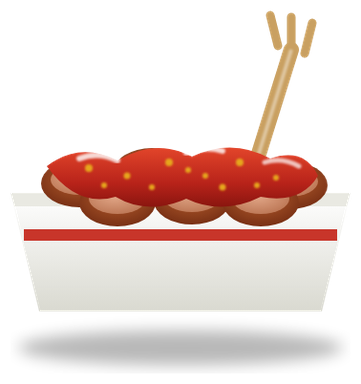
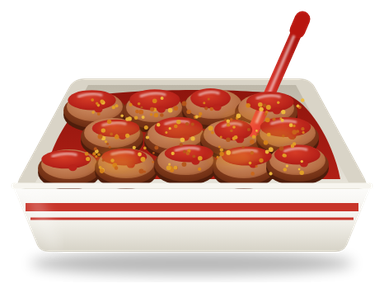
Neue Bilder für Steak und Currywurst [skip ci]
- Steak: gegrillt mit Rautenmuster, angebratener Fettkante, Rosmarin,
  Salz und Pfeffer auf einem Holzbrett (statt Frikadelle mit Fettring).
- Currywurst: Wurstscheiben in der Schale von schräg oben, Curryketchup
  in den Zwischenräumen und auf den Scheiben, Currypulver und rote
  Pommesgabel.
- draw.py: einzelne Bilder neu zeichnen (Namen als Argumente), aktueller
  Pfad der Chromium-Shell.
- Wisch-Test auch für Android (Dehn-Effekt beim Überscrollen).

Claude-Session: https://claude.ai/code/session_01NupdSHJUqBHfHitkyt8aD3

diff --git a/test/layout_test.dart b/test/layout_test.dart
@@ -168,7 +168,7 @@ void main() {
   });
 
   testWidgets(
-    'iPhone: Passen alle Kacheln, federt das Raster beim Wischen nicht',
+    'Passen alle Kacheln, federt bzw. dehnt sich das Raster beim Wischen nicht',
     (tester) async {
       setScreen(tester, const Size(400, 800));
       await tester.pumpWidget(buildApp());
@@ -185,7 +185,7 @@ void main() {
       await gesture.up();
       await tester.pumpAndSettle();
     },
-    variant: TargetPlatformVariant.only(TargetPlatform.iOS),
+    variant: const TargetPlatformVariant({TargetPlatform.iOS, TargetPlatform.android}),
   );
 
   testWidgets('Wenig Platz: Raster scrollt', (tester) async {

diff --git a/tool/article_art/draw.py b/tool/article_art/draw.py
@@ -3,17 +3,19 @@ Chromium zu PNG (längste Seite 384 px, transparent, auf den Inhalt
 zugeschnitten). Halbrealistischer Stil: Verläufe, Licht, Schatten und
 Oberflächenstruktur statt Konturen.
 
-Aufruf: python3 tool/article_art/draw.py <ausgabeordner> [chromium]
-Danach die PNGs nach assets/articles kopieren (pfand -> pfandrueckgabe,
-frei -> freier_betrag).
+Aufruf: python3 tool/article_art/draw.py <ausgabeordner> [chromium] [name ...]
+Ohne Namen werden alle Bilder gezeichnet. Danach die PNGs nach
+assets/articles kopieren (pfand -> pfandrueckgabe, frei -> freier_betrag).
 """
 import os
+import random
 import subprocess
 import sys
 
 OUT = sys.argv[1]
 CHROME = sys.argv[2] if len(sys.argv) > 2 else (
-    '/opt/pw-browsers/chromium_headless_shell-1194/chrome-linux/headless_shell')
+    '/opt/pw-browsers/chromium_headless_shell-1243/chrome-headless-shell-linux64/chrome-headless-shell')
+ONLY = set(sys.argv[3:])
 
 # Gemeinsame Filter: weicher Schatten, Körnung (Brot, Fleisch, Panade),
 # unregelmäßiger Rand (Panade) und weiche Glanzlichter.
@@ -134,30 +136,88 @@ ART['bratwurst'] = svg('''
 <linearGradient id="senf" x1="0" y1="0" x2="0" y2="1"><stop offset="0" stop-color="#ffe45a"/><stop offset="1" stop-color="#e2b400"/></linearGradient>
 ''')
 
-ART['currywurst'] = svg('''
-<path d="M322 300 L372 140" stroke="#c9a061" stroke-width="16" stroke-linecap="round"/>
-<path d="M358 136 l-8 -32 M372 140 l0 -34 M386 144 l8 -32" stroke="#c9a061" stroke-width="9" stroke-linecap="round"/>
-<path d="M322 300 L372 140" stroke="#fff" stroke-width="4" opacity=".4" filter="url(#blur1)"/>
-<path d="M78 290 L434 290 L404 414 L108 414 Z" fill="url(#schale)"/>
-<path d="M78 290 L434 290 L430 304 L82 304 Z" fill="#e9e9e2"/>
-<path d="M92 334 L420 334" stroke="#c8352a" stroke-width="12"/>
+def _curry_slice(x, y):
+    """Wurstscheibe von schräg oben: Haut als Rand, gebräunte Schnittfläche."""
+    return (f'<ellipse cx="{x}" cy="{y + 10}" rx="38" ry="21" fill="#4e1d0b"/>'
+            f'<ellipse cx="{x}" cy="{y + 5}" rx="38" ry="21" fill="url(#cwSkin)"/>'
+            f'<ellipse cx="{x}" cy="{y}" rx="34" ry="18" fill="url(#cwCut)"/>')
+
+
+def _curry_rows():
+    """Scheiben in versetzten Reihen, passend in die Schale (hinten schmaler),
+    leicht unregelmäßig."""
+    rnd = random.Random(3)
+    rows = []
+    for i, y in enumerate((204, 238, 272)):
+        half = 142 + (y - 170) * 68 / 130 - 42    # halbe Innenbreite minus Rand
+        n = int(2 * half // 70) + 1
+        x0 = 256 - (n - 1) * 35 + (10 if i % 2 else -10)
+        rows.append([(round(x0 + k * 70 + rnd.uniform(-5, 5)), round(y + rnd.uniform(-3, 3))) for k in range(n)])
+    return rows
+
+
+def _curry_sauce_cap(i, x, y):
+    rnd = random.Random(100 + i)
+    dx, dy = rnd.uniform(-5, 5), rnd.uniform(-10, -5)
+    rx, ry = rnd.uniform(23, 31), rnd.uniform(10, 13)
+    return (f'<ellipse cx="{x + dx:.1f}" cy="{y + dy:.1f}" rx="{rx:.1f}" ry="{ry:.1f}" fill="url(#cwSauce)"/>'
+            f'<ellipse cx="{x + dx + 8:.1f}" cy="{y + dy + ry - 1:.1f}" rx="5" ry="4" fill="#b8221a"/>'
+            + shine(f'M{x + dx - rx * .55:.1f} {y + dy - ry * .35:.1f} Q{x + dx:.1f} {y + dy - ry * .8:.1f} '
+                    f'{x + dx + rx * .4:.1f} {y + dy - ry * .5:.1f}', 3, .55, 'blur1'))
+
+
+def _curry_powder():
+    rnd = random.Random(7)
+    dots = []
+    for _ in range(170):
+        x = rnd.uniform(124, 392)
+        y = rnd.uniform(194, 286)
+        r = rnd.uniform(1.4, 3.0)
+        c = rnd.choice(['#e3a126', '#d98418', '#c9661a', '#f0bd3c', '#b8561a'])
+        dots.append(f'<circle cx="{x:.1f}" cy="{y:.1f}" r="{r:.1f}" fill="{c}"/>')
+    haze = ''.join(f'<ellipse cx="{rnd.uniform(140, 370):.0f}" cy="{rnd.uniform(200, 280):.0f}" rx="26" ry="10" '
+                   f'fill="#e39a2a" opacity=".22"/>' for _ in range(10))
+    return f'<g filter="url(#blur3)">{haze}</g><g opacity=".95">' + ''.join(dots) + '</g>'
+
+
+_CW_ROWS = _curry_rows()
+_CW_SLICES = [p for row in _CW_ROWS for p in row]
+
+ART['currywurst'] = svg(
+    # Schale: Rand und Innenraum (hinten).
+    '''
+<path d="M126 170 L386 170 Q400 170 406 182 L466 292 Q472 304 458 304 L54 304 Q40 304 46 292 L106 182 Q112 170 126 170 Z" fill="#d9d4c7"/>
+<path d="M130 178 L382 178 L446 296 L66 296 Z" fill="url(#cwInnen)"/>
+<path d="M142 190 C200 182 320 182 372 190 C400 200 428 250 436 292 L76 292 C84 250 112 200 142 190 Z" fill="url(#cwBett)"/>
+'''
+    # Wurstscheiben, von hinten nach vorn.
+    + ''.join(_curry_slice(x, y) for x, y in _CW_SLICES)
+    # Pommesgabel aus rotem Kunststoff, steckt in einer Scheibe.
+    + '''
 <g>
-''' + ''.join(f'''<ellipse cx="{x}" cy="{y}" rx="40" ry="25" fill="url(#skin)"/>
-<ellipse cx="{x}" cy="{y - 4}" rx="30" ry="16" fill="url(#cut)"/>''' for x, y in
-              [(150, 280), (226, 268), (302, 270), (370, 282), (190, 300), (268, 298), (340, 300)]) + '''
+  <path d="M330 234 L384 112" stroke="url(#cwGabel)" stroke-width="14" stroke-linecap="round"/>
+  <path d="M384 112 L390 98" stroke="#b8160f" stroke-width="19" stroke-linecap="round"/>
+  <path d="M334 224 L380 118" stroke="#fff" stroke-width="3.5" opacity=".55" filter="url(#blur1)"/>
 </g>
-<path d="M116 262 Q150 236 190 256 Q230 232 268 252 Q310 232 350 254 Q386 242 400 272 Q382 302 340 294 Q300 314 262 296 Q222 314 188 294 Q148 306 116 262 Z" fill="url(#sauce)"/>
-''' + shine('M150 254 Q170 246 190 256', 6, .8, 'blur1') + shine('M262 248 Q282 240 300 246', 6, .8, 'blur1') + shine('M344 258 Q362 252 380 262', 5, .7, 'blur1') + '''
-<g fill="#e6a51d" filter="url(#blur1)">
-  <circle cx="160" cy="264" r="4"/><circle cx="200" cy="272" r="3.5"/><circle cx="244" cy="258" r="4"/><circle cx="282" cy="272" r="3"/>
-  <circle cx="318" cy="258" r="4"/><circle cx="356" cy="274" r="3"/><circle cx="226" cy="284" r="3"/><circle cx="300" cy="284" r="3.5"/>
-  <circle cx="176" cy="282" r="3"/><circle cx="336" cy="282" r="3"/><circle cx="264" cy="266" r="3"/>
-</g>
-''', defs='''
-<linearGradient id="schale" x1="0" y1="0" x2="0" y2="1"><stop offset="0" stop-color="#ffffff"/><stop offset="1" stop-color="#d9d9d0"/></linearGradient>
-<radialGradient id="skin" cx=".5" cy=".4" r=".7"><stop offset="0" stop-color="#b8602f"/><stop offset="1" stop-color="#6e2810"/></radialGradient>
-<radialGradient id="cut" cx=".45" cy=".4" r=".7"><stop offset="0" stop-color="#e3a98a"/><stop offset="1" stop-color="#b8714f"/></radialGradient>
-<linearGradient id="sauce" x1="0" y1="0" x2="0" y2="1"><stop offset="0" stop-color="#e2452a"/><stop offset=".6" stop-color="#b8231a"/><stop offset="1" stop-color="#8a150f"/></linearGradient>
+'''
+    # Curryketchup: liegt in den Zwischenräumen und überzieht jede Scheibe
+    # zum Teil; vorn bleibt ein Rand der Schnittfläche frei.
+    + ''.join(_curry_sauce_cap(i, x, y) for i, (x, y) in enumerate(_CW_SLICES))
+    + _curry_powder()
+    # Vorderwand der Schale verdeckt den unteren Rand der vorderen Scheiben.
+    + '''
+<path d="M46 292 Q40 304 54 304 L458 304 Q472 304 466 292 L474 300 L444 372 Q440 380 430 380 L82 380 Q72 380 68 372 L38 300 Z" fill="url(#cwWand)"/>
+<path d="M40 300 L472 300" stroke="#f7f5ef" stroke-width="7" stroke-linecap="round"/>
+<path d="M54 326 L458 326" stroke="#c8352a" stroke-width="10"/>
+<path d="M60 340 L452 340" stroke="#c8352a" stroke-width="3"/>
+''' + shine('M64 314 L88 372', 12, .35, 'blur8'), shadow=(256, 394, 196, 14), defs='''
+<linearGradient id="cwInnen" x1="0" y1="0" x2="0" y2="1"><stop offset="0" stop-color="#bdb7a8"/><stop offset="1" stop-color="#e6e2d8"/></linearGradient>
+<linearGradient id="cwWand" x1="0" y1="0" x2="0" y2="1"><stop offset="0" stop-color="#ffffff"/><stop offset=".6" stop-color="#f1efe8"/><stop offset="1" stop-color="#d6d2c6"/></linearGradient>
+<radialGradient id="cwSkin" cx=".5" cy=".35" r=".8"><stop offset="0" stop-color="#a5532a"/><stop offset="1" stop-color="#5e230d"/></radialGradient>
+<radialGradient id="cwCut" cx=".45" cy=".4" r=".75"><stop offset="0" stop-color="#d4946a"/><stop offset=".7" stop-color="#b66e44"/><stop offset="1" stop-color="#8a4424"/></radialGradient>
+<linearGradient id="cwBett" x1="0" y1="0" x2="0" y2="1"><stop offset="0" stop-color="#8e150d"/><stop offset="1" stop-color="#b01f15"/></linearGradient>
+<radialGradient id="cwSauce" cx=".45" cy=".4" r=".7"><stop offset="0" stop-color="#d63c26"/><stop offset=".7" stop-color="#b8221a"/><stop offset="1" stop-color="#a01b12"/></radialGradient>
+<linearGradient id="cwGabel" x1="0" x2="1"><stop offset="0" stop-color="#f0463a"/><stop offset="1" stop-color="#a8140e"/></linearGradient>
 ''')
 
 ART['krakauer'] = svg('''
@@ -184,33 +244,46 @@ ART['krakauer'] = svg('''
 <radialGradient id="marbled" cx=".45" cy=".4" r=".75"><stop offset="0" stop-color="#e79a8c"/><stop offset=".7" stop-color="#c76a5c"/><stop offset="1" stop-color="#a24c3f"/></radialGradient>
 ''')
 
+STEAK_TOP = ('M92 246 C88 194 146 156 222 154 C290 152 322 172 360 172 C410 172 440 204 432 248 '
+             'C424 292 378 312 312 316 C252 320 220 334 166 328 C114 322 96 292 92 246 Z')
+# Fleisch: wie STEAK_TOP, nur die Oberkante tiefer, sodass oben ein Fettrand
+# bleibt.
+STEAK_MEAT = ('M96 250 C94 202 148 168 222 166 C289 164 321 183 359 183 C405 183 430 210 430 248 '
+              'C424 292 378 312 312 316 C252 320 220 334 166 328 C114 322 98 292 98 252 Z')
+
 ART['steak'] = svg('''
-<rect x="40" y="250" width="432" height="180" rx="24" fill="url(#brett)" filter="url(#grain)"/>
-<g stroke="#8a5a2c" stroke-width="3" opacity=".35" fill="none">
-  <path d="M60 290 Q256 280 452 296 M56 330 Q256 322 456 336 M60 372 Q256 362 452 378 M66 408 Q256 400 446 412"/>
+<path d="M78 252 L438 252 Q452 252 456 264 L494 378 Q498 392 484 392 L28 392 Q14 392 18 378 L58 264 Q62 252 78 252 Z" fill="url(#stBrett)" filter="url(#grain)"/>
+<path d="M18 380 L494 380 L494 396 Q494 414 476 414 L36 414 Q18 414 18 396 Z" fill="url(#stKante)"/>
+<g stroke="#8a5a2c" stroke-width="3" opacity=".3" fill="none">
+  <path d="M70 280 Q256 272 444 282 M56 318 Q256 308 458 320 M42 356 Q256 346 472 358"/>
 </g>
-<path d="M40 404 L472 404 L472 406 Q472 430 448 430 L64 430 Q40 430 40 406 Z" fill="#7a4a20" opacity=".6"/>
-<path d="M92 252 C90 170 214 132 310 152 C408 172 452 232 432 304 C412 380 304 404 216 388 C132 374 94 330 92 252 Z"
-  fill="#3a1a0e" opacity=".55" filter="url(#blur8)" transform="translate(6 14)"/>
-<path d="M92 252 C90 170 214 132 310 152 C408 172 452 232 432 304 C412 380 304 404 216 388 C132 374 94 330 92 252 Z" fill="url(#fett)"/>
-<g filter="url(#grain)">
-  <path d="M116 254 C116 188 216 164 300 178 C384 192 418 238 404 296 C388 352 302 374 224 362 C152 350 116 314 116 254 Z" fill="url(#fleisch)"/>
+<g transform="translate(-31 -18) scale(1.12)">
+<path d="''' + STEAK_TOP + '''" fill="#2a0f06" opacity=".55" filter="url(#blur8)" transform="translate(8 30)"/>
+<path d="''' + STEAK_TOP + '''" fill="url(#stSeite)" transform="translate(0 20)"/>
+<path d="''' + STEAK_TOP + '''" fill="url(#stFett)"/>
+<g filter="url(#grain)"><path d="''' + STEAK_MEAT + '''" fill="url(#stFleisch)"/></g>
+<clipPath id="stClip"><path d="''' + STEAK_TOP + '''"/></clipPath>
+<g clip-path="url(#stClip)" stroke="#220a03" stroke-width="12" stroke-linecap="round" opacity=".8" filter="url(#blur3)">
+  <path d="M110 218 L230 338 M170 182 L300 312 M240 172 L372 304 M316 176 L430 290"/>
+  <path d="M116 306 L230 192 M196 322 L326 192 M282 318 L404 196"/>
 </g>
-<g stroke="#2b0f05" stroke-width="16" stroke-linecap="round" opacity=".75" filter="url(#blur3)">
-  <path d="M154 222 L236 304 M200 190 L306 296 M262 180 L366 284 M324 190 L396 262 M144 296 L180 332"/>
+''' + shine('M150 218 C200 196 270 192 330 202', 9, .3, 'blur8') + shine('M356 216 C384 216 404 230 410 246', 6, .35, 'blur3') + shine('M124 192 C160 168 210 160 250 160', 4, .45, 'blur1') + '''
+<g fill="#160602" opacity=".7"><circle cx="168" cy="248" r="2.6"/><circle cx="214" cy="286" r="2.2"/><circle cx="262" cy="218" r="2.4"/>
+  <circle cx="318" cy="270" r="2.6"/><circle cx="366" cy="240" r="2.2"/><circle cx="140" cy="280" r="2"/><circle cx="290" cy="298" r="2"/></g>
+<g fill="#fbf7ee" opacity=".9"><rect x="196" y="234" width="4" height="4" transform="rotate(20 198 236)"/><rect x="250" y="266" width="4" height="4"/>
+  <rect x="338" y="220" width="4" height="4" transform="rotate(40 340 222)"/><rect x="154" y="300" width="3.5" height="3.5"/></g>
+<g>
+  <path d="M250 190 C288 164 334 160 372 174" fill="none" stroke="#4a5d2a" stroke-width="5" stroke-linecap="round"/>
+''' + ''.join(f'<ellipse cx="{252 + i * 11.5}" cy="{188 - i * 2.2 + (6 if i % 2 else -6)}" rx="11" ry="2.8" fill="#3f6b2e" '
+              f'transform="rotate({-40 if i % 2 else 30} {252 + i * 11.5} {188 - i * 2.2})"/>' for i in range(11)) + '''
 </g>
-''' + shine('M150 208 C200 182 280 176 340 190', 10, .35, 'blur8') + '''
-<path d="M282 190 C322 170 352 170 372 186" fill="none" stroke="#2f6b2a" stroke-width="5" stroke-linecap="round"/>
-<g fill="#4c8f3e">
-  <ellipse cx="300" cy="176" rx="14" ry="4.5" transform="rotate(-30 300 176)"/><ellipse cx="324" cy="170" rx="14" ry="4.5" transform="rotate(20 324 170)"/>
-  <ellipse cx="346" cy="174" rx="14" ry="4.5" transform="rotate(-25 346 174)"/><ellipse cx="312" cy="190" rx="14" ry="4.5" transform="rotate(30 312 190)"/>
-  <ellipse cx="336" cy="190" rx="14" ry="4.5" transform="rotate(-20 336 190)"/><ellipse cx="360" cy="186" rx="12" ry="4" transform="rotate(25 360 186)"/>
 </g>
-<g fill="#f3efe4"><circle cx="190" cy="330" r="3"/><circle cx="262" cy="346" r="2.5"/><circle cx="350" cy="320" r="3"/><circle cx="220" cy="240" r="2.5"/></g>
-''', shadow=(256, 440, 220, 14), defs='''
-<linearGradient id="brett" x1="0" y1="0" x2="0" y2="1"><stop offset="0" stop-color="#d8a868"/><stop offset="1" stop-color="#b07c40"/></linearGradient>
-<radialGradient id="fett" cx=".45" cy=".35" r=".8"><stop offset="0" stop-color="#f6e4c4"/><stop offset="1" stop-color="#cf9e64"/></radialGradient>
-<radialGradient id="fleisch" cx=".45" cy=".35" r=".8"><stop offset="0" stop-color="#a65a33"/><stop offset=".6" stop-color="#7c3b1d"/><stop offset="1" stop-color="#4f210d"/></radialGradient>
+''', shadow=(256, 418, 236, 14), defs='''
+<linearGradient id="stBrett" x1="0" y1="0" x2="0" y2="1"><stop offset="0" stop-color="#cf9b5c"/><stop offset="1" stop-color="#e0b274"/></linearGradient>
+<linearGradient id="stKante" x1="0" y1="0" x2="0" y2="1"><stop offset="0" stop-color="#a86f36"/><stop offset="1" stop-color="#7a4a20"/></linearGradient>
+<linearGradient id="stSeite" x1="0" y1="0" x2="0" y2="1"><stop offset=".6" stop-color="#5a240e"/><stop offset="1" stop-color="#2e1006"/></linearGradient>
+<linearGradient id="stFett" x1="0" y1="0" x2="0" y2="1"><stop offset="0" stop-color="#e9c48a"/><stop offset=".18" stop-color="#c9924e"/><stop offset=".4" stop-color="#8a5220"/></linearGradient>
+<radialGradient id="stFleisch" cx=".45" cy=".4" r=".75"><stop offset="0" stop-color="#9c5226"/><stop offset=".55" stop-color="#7a3818"/><stop offset="1" stop-color="#4a1c0a"/></radialGradient>
 ''')
 
 FRY = '''<g transform="rotate({r} {cx} {cy})"><rect x="{x}" y="{y}" width="30" height="{h}" rx="5" fill="url(#fry)"/>
@@ -445,7 +518,9 @@ ART['frei'] = svg('''
 os.makedirs(OUT, exist_ok=True)
 tmp = os.path.join(OUT, '_svg')
 os.makedirs(tmp, exist_ok=True)
-for name, content in ART.items():
+NAMES = [n for n in ART if not ONLY or n in ONLY]
+for name in NAMES:
+    content = ART[name]
     src = os.path.join(tmp, name + '.svg')
     with open(src, 'w') as f:
         f.write(content)
@@ -457,7 +532,7 @@ for name, content in ART.items():
 
 from PIL import Image  # noqa: E402
 
-for name in ART:
+for name in NAMES:
     path = os.path.join(OUT, name + '.png')
     im = Image.open(path).convert('RGBA')
     l, t, r, b = im.getchannel('A').point(lambda a: 255 if a > 8 else 0).getbbox()
@@ -468,4 +543,4 @@ for name in ART:
     canvas.paste(im.crop((l, t, r, b)), (m, m))
     scale = 384 / max(w, h)
     canvas.resize((round(w * scale), round(h * scale)), Image.LANCZOS).save(path, optimize=True)
-print('ok', len(ART))
+print('ok', len(NAMES))
